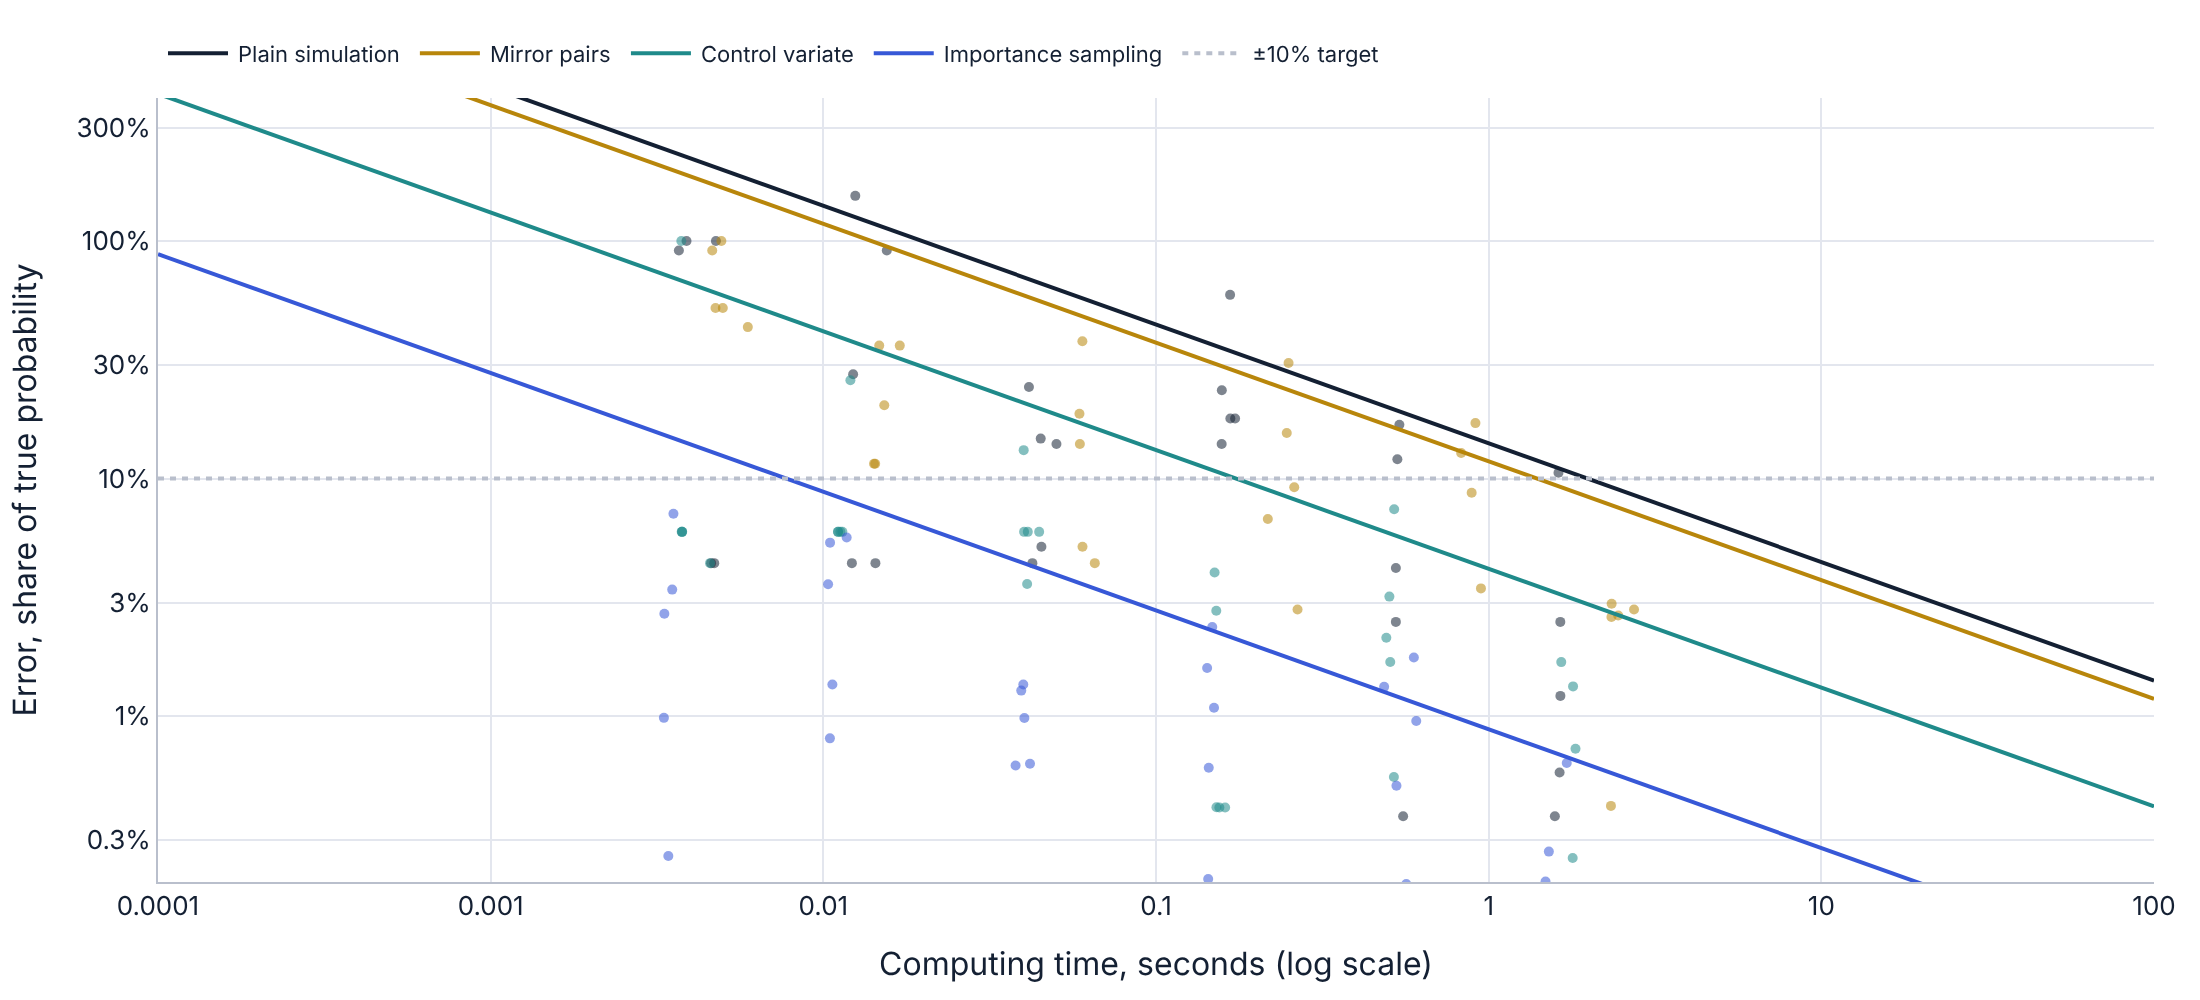
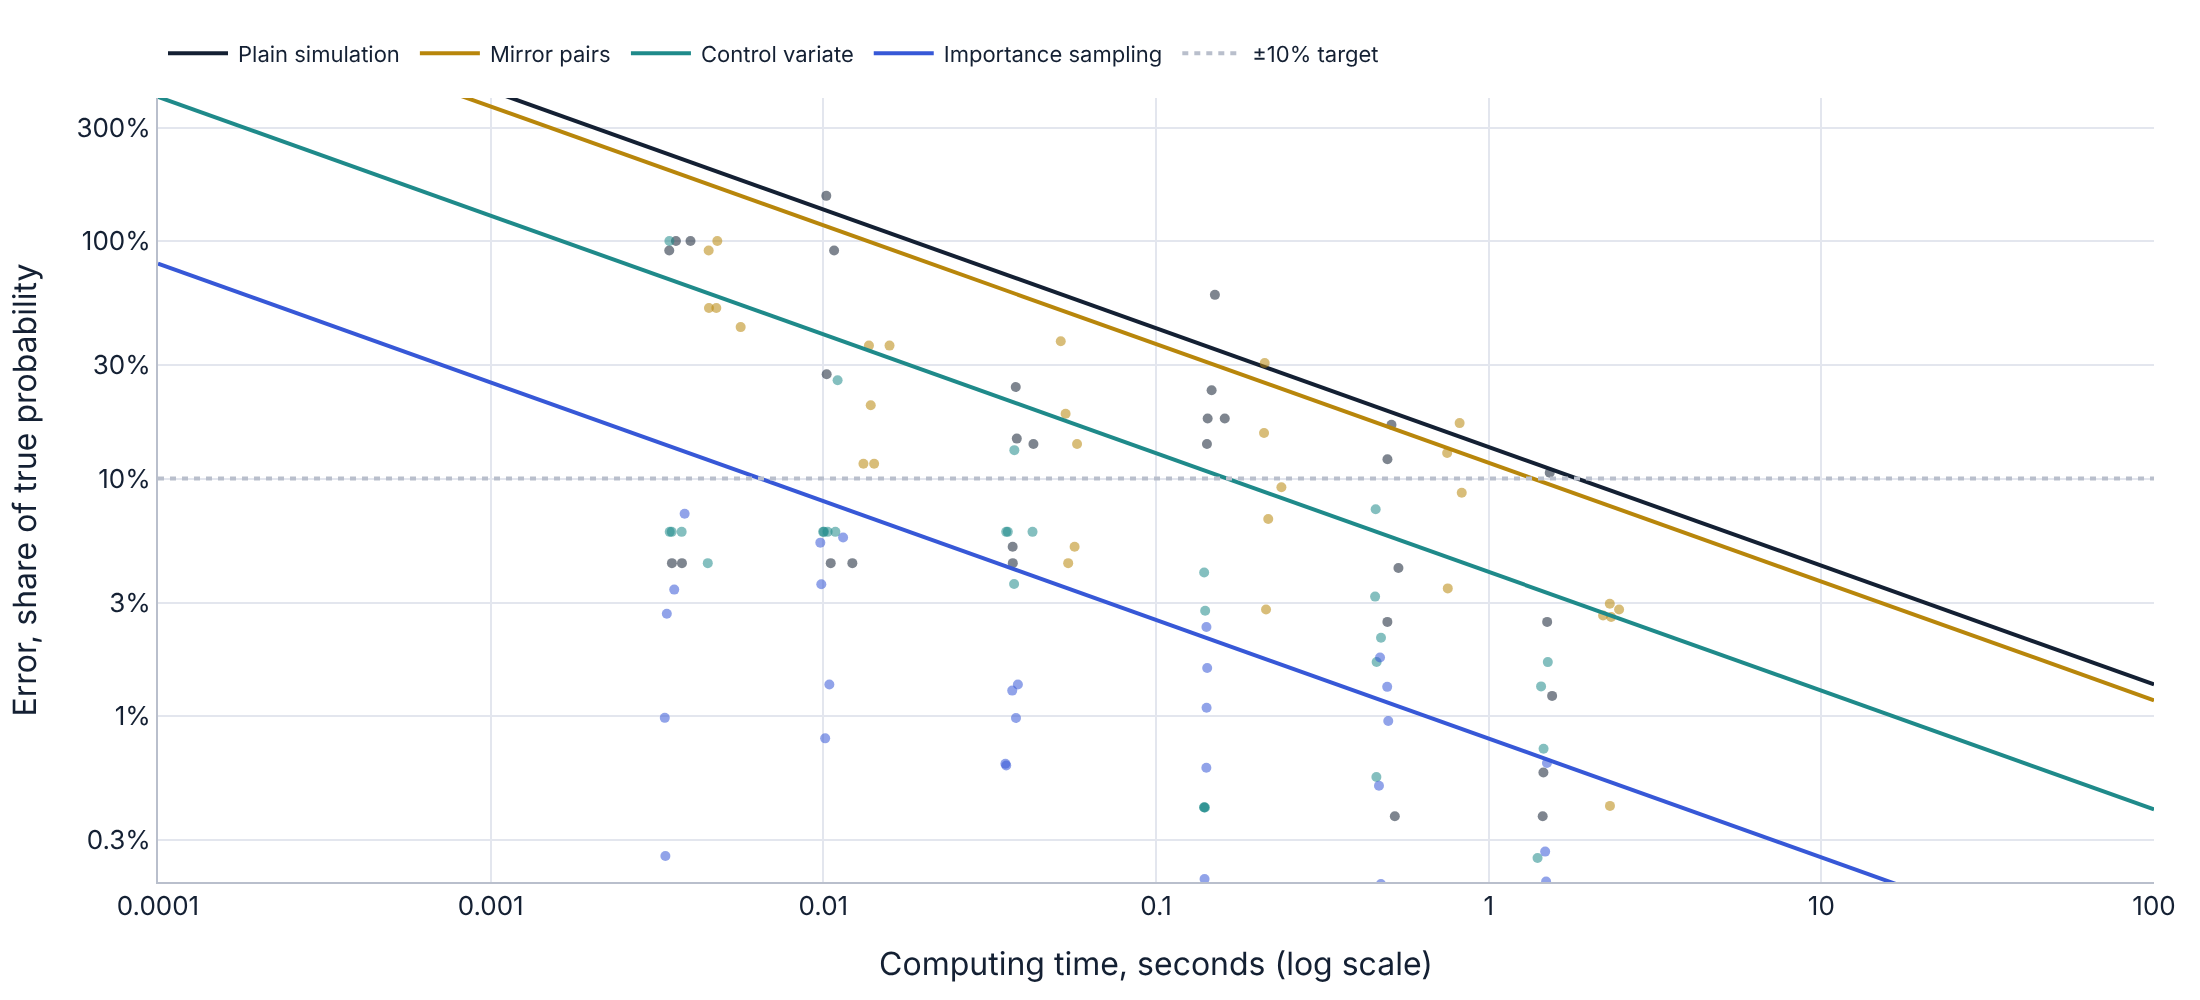
Fix the ±10% boundary check in the stopping-rule experiment (floating point), and name the rare event as a year-end loss
Claude-Session: https://claude.ai/code/session_01Xkw4KkWx2WEupm2YMkZDmy

diff --git a/mcsize/rules.py b/mcsize/rules.py
@@ -82,7 +82,8 @@ def run_rule(rule: str, p: float, reps: int, rng: np.random.Generator, max_n: in
 
 def summarize(res: dict[str, np.ndarray], p: float, rel: float = REL) -> dict[str, float]:
     covered = (res["lo"] <= p) & (p <= res["hi"])
-    within = np.abs(res["est"] - p) <= rel * p
+    # small tolerance: in floating point |k/n - p| / p can come out as 0.10000000000000005 exactly at the boundary
+    within = np.abs(res["est"] - p) <= rel * p * (1 + 1e-9)
     return {"coverage": float(covered.mean()), "within_target": float(within.mean()),
             "mean_n": float(res["n"].mean()), "median_n": float(np.median(res["n"])),
             "share_zero": float((res["est"] == 0).mean()),

diff --git a/tests/test_mcsize.py b/tests/test_mcsize.py
@@ -99,3 +99,9 @@ def test_naive_sequential_rule_stops_at_zero_for_rare_events():
     res = rules.run_rule("naive", 0.001, 2000, np.random.default_rng(7))
     s = rules.summarize(res, 0.001)
     assert s["share_zero"] > 0.8 and s["coverage"] < 0.2
+
+
+def test_within_target_includes_the_boundary_counts():
+    # p = 0.001, n = 10,000: counts 9, 10 and 11 are all within 10% of the expected 10
+    res = {"n": np.array([10_000] * 3), "est": np.array([9, 10, 11]) / 10_000, "lo": np.zeros(3), "hi": np.ones(3)}
+    assert rules.summarize(res, 0.001)["within_target"] == 1.0

diff --git a/README.md b/README.md
@@ -13,7 +13,7 @@ right, when it wastes runs, and when it fails. Every number and figure in the ar
 |---|---|
 | `mcsize/stats.py` | Confidence intervals (mean, Wald, Wilson, quantile, Expected Shortfall) and run-count formulas |
 | `mcsize/withdrawal.py` | The main example: does a 4% withdrawal plan last 30 years? Four ways to generate return scenarios |
-| `mcsize/leverage.py` | The rare event: a daily-reset 3× fund losing 90% in a year; plain simulation and three variance-reduction estimators |
+| `mcsize/leverage.py` | The rare event: a daily-reset 3× fund ending the year down 90% or more; plain simulation and three variance-reduction estimators |
 | `mcsize/rules.py` | Four stopping rules and the coverage experiment |
 | `mcsize/data.py` | Real annual returns from Robert Shiller's monthly data |
 | `scripts/prepare_data.py` | Rebuilds `data/annual_real_returns.csv` from the raw file (checks its SHA-256) |
